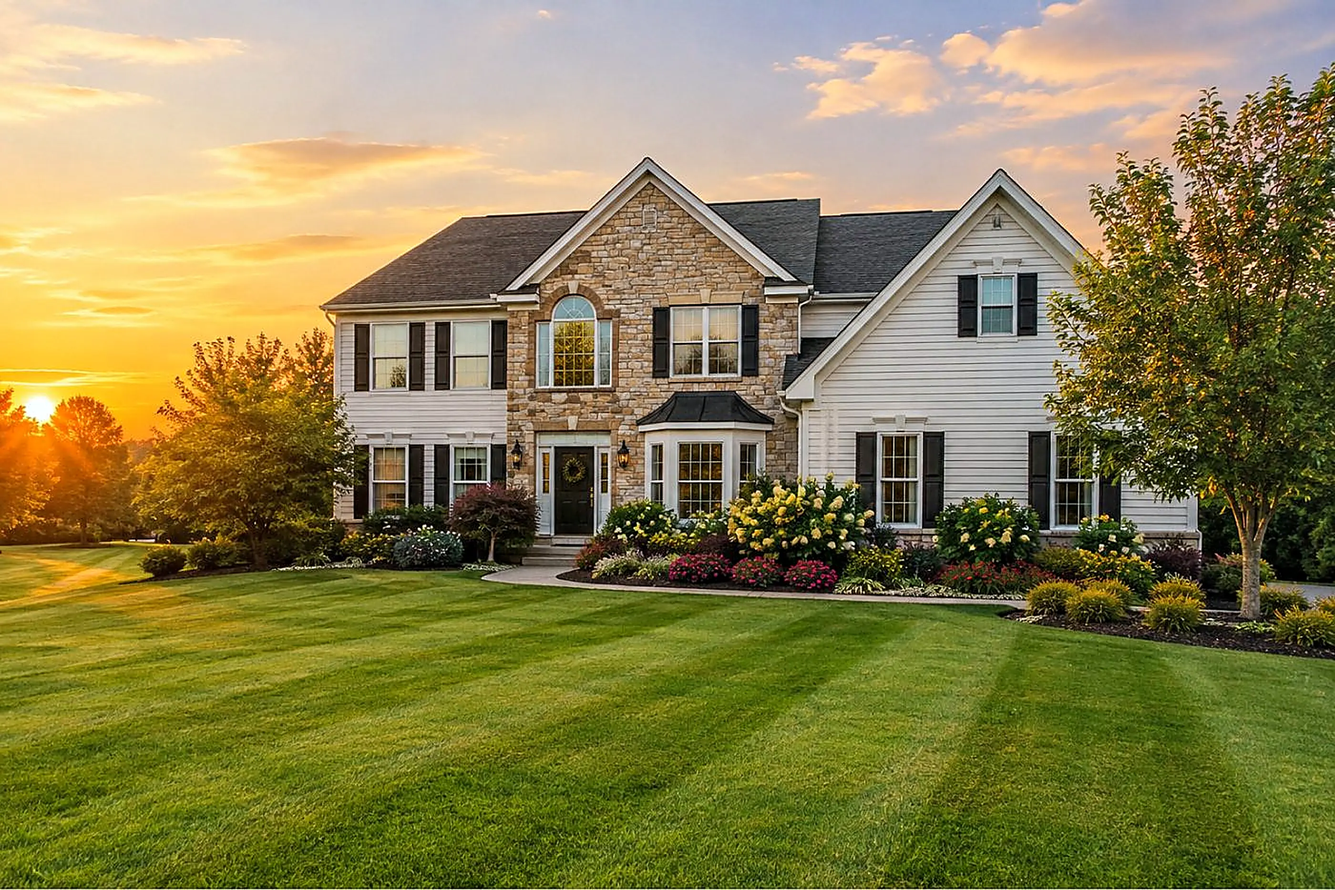
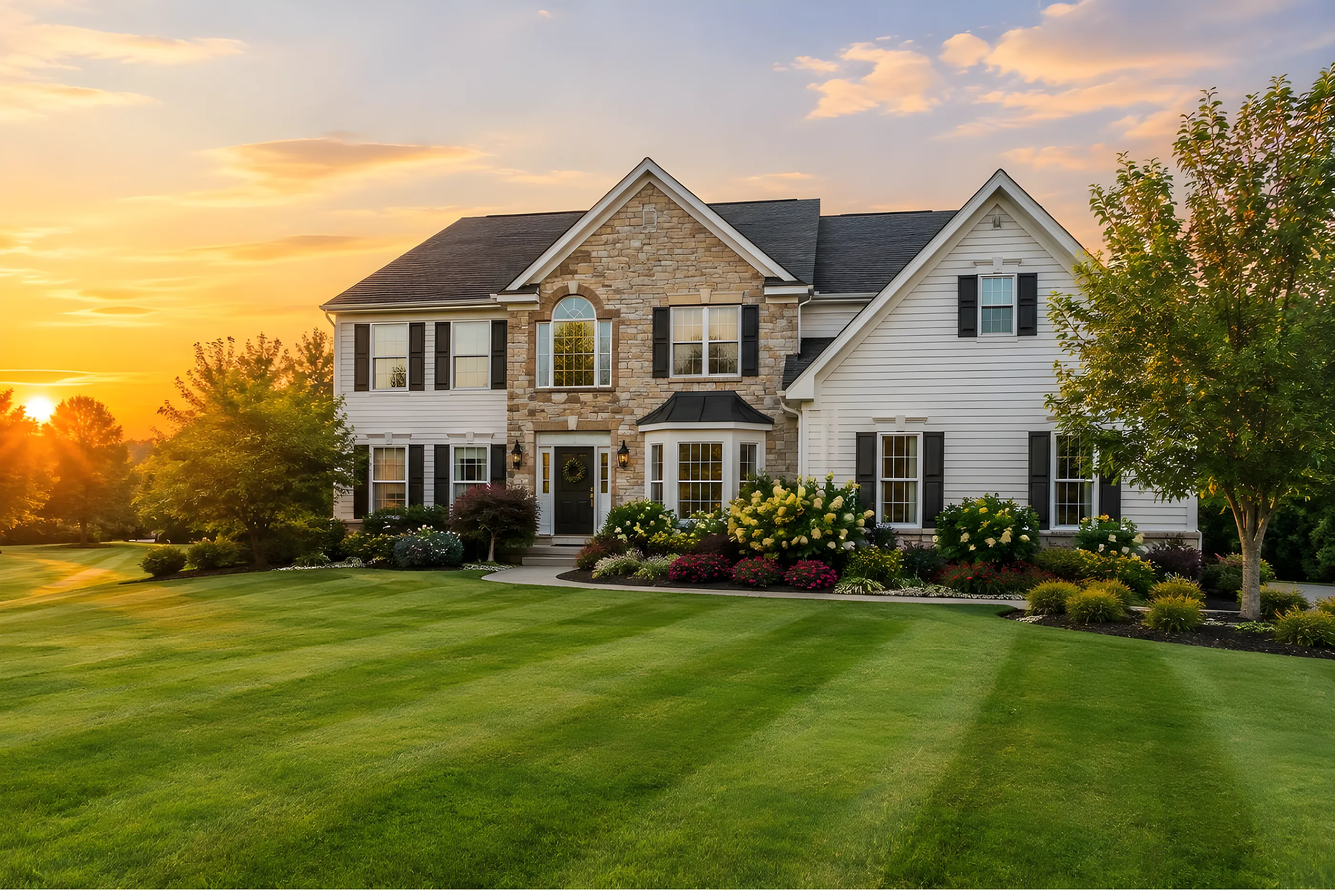
Replace photos with AI-upscaled versions, add phone-sized copies
All eight photos re-enlarged 4x from the original files with Real-ESRGAN
(x4plus), which removes the JPEG blockiness and rebuilds edge detail instead
of just sharpening a stretched image. Each photo now has a full-size WebP for
desktop and a 1200px "-sm" WebP that phones load via srcset, so phones
download about a third of the data.

Claude-Session: https://claude.ai/code/session_0122Fu86g93JmCMEr3MUrH5U

diff --git a/index.html b/index.html
@@ -150,7 +150,7 @@ footer{text-align:center;padding:34px;font-size:.72rem;letter-spacing:.2em;text-
 </div></header>
 
 <section class="hero">
-  <div class="bg"><img src="images/hero.webp" alt="Landscaped home at golden hour" fetchpriority="high" decoding="async"></div>
+  <div class="bg"><img src="images/hero.webp" srcset="images/hero-sm.webp 1200w, images/hero.webp 2800w" sizes="100vw" alt="Landscaped home at golden hour" fetchpriority="high" decoding="async"></div>
   <div class="hero-scrim"></div><div class="leak"></div><div class="bars t"></div><div class="bars b"></div>
   <div class="wrap hero-in">
     <p class="kicker">Landscape Design · Lawn Care · Hardscapes</p>
@@ -167,13 +167,13 @@ footer{text-align:center;padding:34px;font-size:.72rem;letter-spacing:.2em;text-
 </div></section>
 
 <div id="services">
-<section class="scene"><div class="bg" data-par><img src="images/lawn.webp" alt="Lawn mowing" loading="lazy" decoding="async"></div>
+<section class="scene"><div class="bg" data-par><img src="images/lawn.webp" srcset="images/lawn-sm.webp 1200w, images/lawn.webp 2400w" sizes="100vw" alt="Lawn mowing" loading="lazy" decoding="async"></div>
   <div class="wrap"><div class="copy rv"><span class="num">01 —</span><h3>Lawn Care</h3><p>Weekly mowing, feeding and edging that keeps every stripe sharp from spring to frost.</p></div></div></section>
-<section class="scene r"><div class="bg" data-par><img src="images/flowers.webp" alt="Garden beds" loading="lazy" decoding="async"></div>
+<section class="scene r"><div class="bg" data-par><img src="images/flowers.webp" srcset="images/flowers-sm.webp 1200w, images/flowers.webp 2400w" sizes="100vw" alt="Garden beds" loading="lazy" decoding="async"></div>
   <div class="wrap"><div class="copy rv"><span class="num">02 —</span><h3>Design & Install</h3><p>Planting plans built around your light, soil and style, then installed in days.</p></div></div></section>
-<section class="scene"><div class="bg" data-par><img src="images/patio.webp" alt="Patio with fire pit" loading="lazy" decoding="async"></div>
+<section class="scene"><div class="bg" data-par><img src="images/patio.webp" srcset="images/patio-sm.webp 1200w, images/patio.webp 2400w" sizes="100vw" alt="Patio with fire pit" loading="lazy" decoding="async"></div>
   <div class="wrap"><div class="copy rv"><span class="num">03 —</span><h3>Hardscapes</h3><p>Patios, fire pits and walls in natural stone, made for long summer nights.</p></div></div></section>
-<section class="scene r"><div class="bg" data-par><img src="images/shrubs.webp" alt="Hedge trimming" loading="lazy" decoding="async"></div>
+<section class="scene r"><div class="bg" data-par><img src="images/shrubs.webp" srcset="images/shrubs-sm.webp 1200w, images/shrubs.webp 2400w" sizes="100vw" alt="Hedge trimming" loading="lazy" decoding="async"></div>
   <div class="wrap"><div class="copy rv"><span class="num">04 —</span><h3>Tree & Shrub</h3><p>Precision pruning and seasonal care that keeps your landscape healthy and tidy.</p></div></div></section>
 </div>
 
@@ -183,8 +183,8 @@ footer{text-align:center;padding:34px;font-size:.72rem;letter-spacing:.2em;text-
     <p class="rv d2">Drag (or use arrow keys on) the slider to see an overgrown lot become an outdoor room.</p>
   </div>
   <div class="ba rv" id="ba" tabindex="0" role="slider" aria-label="Before and after comparison. Use arrow keys to move the divider." aria-valuemin="0" aria-valuemax="100" aria-valuenow="50" aria-valuetext="50% after">
-    <img src="images/before.webp" alt="Overgrown backyard before the makeover" loading="lazy" decoding="async">
-    <div class="after"><img src="images/after.webp" alt="The same backyard after: new lawn, beds and patio" loading="lazy" decoding="async"></div>
+    <img src="images/before.webp" srcset="images/before-sm.webp 1200w, images/before.webp 2400w" sizes="(max-width:1256px) calc(100vw - 56px), 1144px" alt="Overgrown backyard before the makeover" loading="lazy" decoding="async">
+    <div class="after"><img src="images/after.webp" srcset="images/after-sm.webp 1200w, images/after.webp 2400w" sizes="(max-width:1256px) calc(100vw - 56px), 1144px" alt="The same backyard after: new lawn, beds and patio" loading="lazy" decoding="async"></div>
     <div class="handle"></div><span class="tag l">Before</span><span class="tag rr">After</span>
   </div>
 </div></section>
@@ -199,17 +199,17 @@ footer{text-align:center;padding:34px;font-size:.72rem;letter-spacing:.2em;text-
 <section class="gal" id="work">
   <div class="wrap"><p class="kicker rv">Selected Work</p><h2 class="serif rv d1">Recent projects</h2></div>
   <div class="strip">
-    <figure><img src="images/after.webp" alt="Backyard retreat with fresh lawn and patio" loading="lazy" decoding="async"><figcaption>Backyard Retreat</figcaption></figure>
-    <figure><img src="images/patio.webp" alt="Stone fire pit terrace at dusk" loading="lazy" decoding="async"><figcaption>Fire Pit Terrace</figcaption></figure>
-    <figure><img src="images/about.webp" alt="Garden framed by a natural stone wall" loading="lazy" decoding="async"><figcaption>Stone Wall Garden</figcaption></figure>
-    <figure><img src="images/hero.webp" alt="Estate front lawn with mature plantings" loading="lazy" decoding="async"><figcaption>Estate Front Lawn</figcaption></figure>
-    <figure><img src="images/flowers.webp" alt="Perennial border in full bloom" loading="lazy" decoding="async"><figcaption>Perennial Border</figcaption></figure>
+    <figure><img src="images/after.webp" srcset="images/after-sm.webp 1200w, images/after.webp 2400w" sizes="(max-width:860px) 120vw, 800px" alt="Backyard retreat with fresh lawn and patio" loading="lazy" decoding="async"><figcaption>Backyard Retreat</figcaption></figure>
+    <figure><img src="images/patio.webp" srcset="images/patio-sm.webp 1200w, images/patio.webp 2400w" sizes="(max-width:860px) 120vw, 800px" alt="Stone fire pit terrace at dusk" loading="lazy" decoding="async"><figcaption>Fire Pit Terrace</figcaption></figure>
+    <figure><img src="images/about.webp" srcset="images/about-sm.webp 1200w, images/about.webp 2000w" sizes="(max-width:860px) 120vw, 800px" alt="Garden framed by a natural stone wall" loading="lazy" decoding="async"><figcaption>Stone Wall Garden</figcaption></figure>
+    <figure><img src="images/hero.webp" srcset="images/hero-sm.webp 1200w, images/hero.webp 2800w" sizes="(max-width:860px) 120vw, 800px" alt="Estate front lawn with mature plantings" loading="lazy" decoding="async"><figcaption>Estate Front Lawn</figcaption></figure>
+    <figure><img src="images/flowers.webp" srcset="images/flowers-sm.webp 1200w, images/flowers.webp 2400w" sizes="(max-width:860px) 120vw, 800px" alt="Perennial border in full bloom" loading="lazy" decoding="async"><figcaption>Perennial Border</figcaption></figure>
   </div>
   <div class="wrap"><p class="hint">Swipe →</p></div>
 </section>
 
 <section class="quote" id="quote">
-  <div class="bg"><img src="images/about.webp" alt="" loading="lazy" decoding="async"></div>
+  <div class="bg"><img src="images/about.webp" srcset="images/about-sm.webp 1200w, images/about.webp 2000w" sizes="100vw" alt="" loading="lazy" decoding="async"></div>
   <div class="wrap q-in">
     <div class="rv"><p class="kicker">Free Estimate</p><h2 class="serif">Let's build<br><em>your scene.</em></h2>
       <p class="contact"><a href="tel:+12035812425">(203) 581-2425</a><br><a href="mailto:johnnypearson1717@gmail.com">johnnypearson1717@gmail.com</a><br>Wall Township, NJ</p></div>
